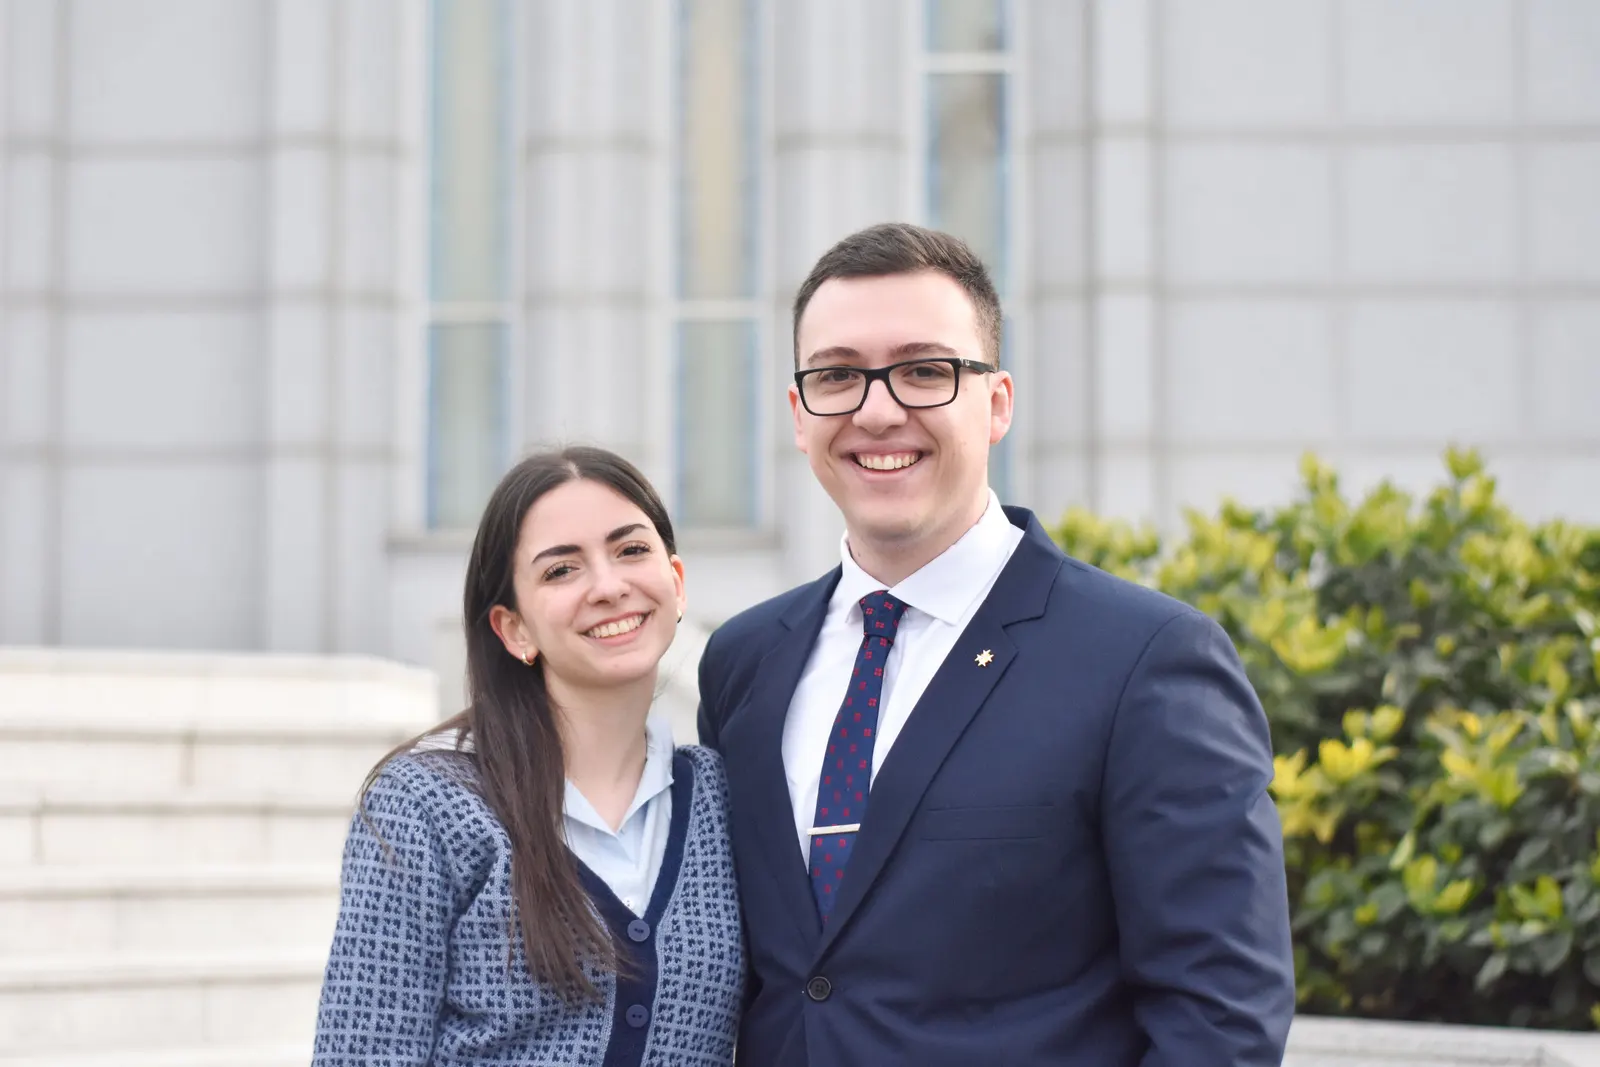
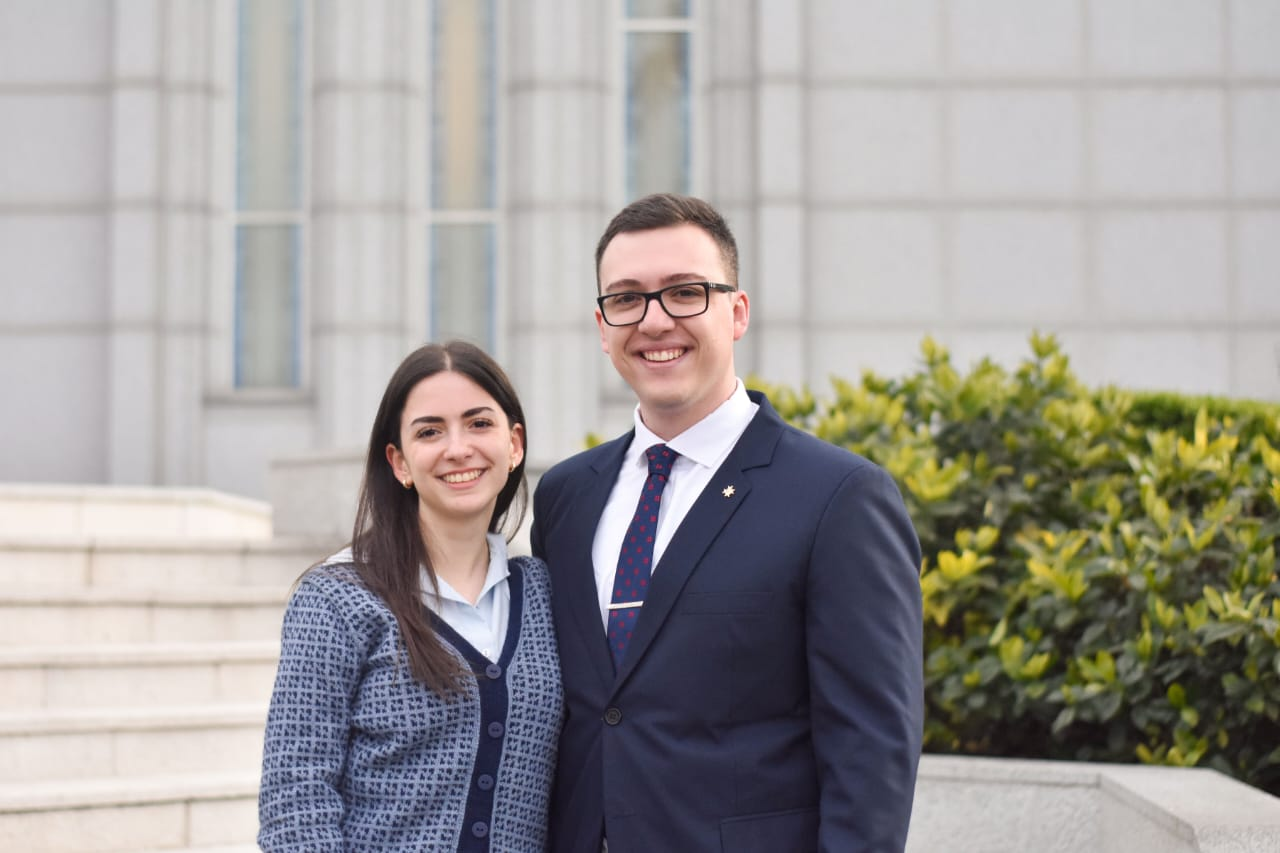
changed photos

diff --git a/README.md b/README.md
@@ -2,7 +2,45 @@
 
 Invitación web: sobre animado → portada, cuenta regresiva, historia, detalles del evento (con "Agregar al calendario"), código de vestimenta, regalos, galería y confirmación de asistencia (RSVP). Más una segunda página, **`/regalos`**, con la lista de regalos completa y reservas.
 
-**Stack:** React 19 · Vite · Tailwind CSS 3 · framer-motion · Supabase (RSVP y reservas de regalos) · Supabase Edge Function + Resend (aviso por mail de reservas) · Google Apps Script (sincronización del RSVP a Google Sheets + aviso por mail). Deploy en Vercel.
+**Stack:** React 19 · Vite · Tailwind CSS 3 · framer-motion · Supabase (RSVP y reservas de regalos) · Supabase Edge Function + Gmail (mails de reservas, con Resend como alternativa) · Vercel (hosting + cron).
+
+## Qué tiene la invitación
+
+| Sección | Detalles |
+| --- | --- |
+| **Sobre** | Pantalla inicial con un sello de cera apoyado sobre la punta de la solapa, como si cerrara el sobre. Un halo late suavemente y un cartel dice "Tocá el sello" en celulares o "Hacé clic en el sello" en compu. Si el invitado vuelve desde `/regalos` (`/#regalos`), el sobre no se repite. |
+| **Portada y cuenta regresiva** | La fecha se formatea desde `site.wedding` con la zona horaria de Argentina. La cuenta regresiva apunta a `wedding.isoString` (12/02/2027 09:40, hora del civil). Para lectores de pantalla hay un resumen que no se anuncia cada segundo. |
+| **Cuándo y Dónde** | Una tarjeta por evento (Civil, Recepción, Sellamiento) con fecha, hora, dirección y "Ver en mapa" siempre al pie. El Sellamiento aclara que no se asegura el ingreso a la sesión, pero se los espera en los jardines del Templo. El botón **Agregar al calendario** descarga un `.ics` con los tres eventos y la duración de cada uno (`durationMinutes`). |
+| **Código de vestimenta** | Detalles más un recuadro destacado con `dressCode.notice` ("Mujeres: no vestimenta blanca"). |
+| **Regalos** | Cuentas para transferir (alias, CBU y CVU) con botón de copiar independiente por campo, y link a `/regalos`. |
+| **Galería** | Fotos en WebP con epígrafe visible también en celulares. |
+| **RSVP** | Formulario validado que guarda en Supabase. Tiene un campo trampa (*honeypot*) contra bots y se cierra solo después de `rsvp.deadline` (1/1/2027), mostrando `rsvp.closedMessage`. |
+
+**Detalles generales**
+
+- **Accesibilidad:** las animaciones respetan *reducir movimiento* del sistema (`MotionConfig reducedMotion="user"`). Hay labels y mensajes de error asociados a cada campo.
+- **Vista previa al compartir:** `index.html` tiene título, descripción y meta tags Open Graph con [`public/assets/og-image.jpg`](public/assets/og-image.jpg) (1200×630), así el link se ve bien en WhatsApp.
+- **Rendimiento:** fotos optimizadas a WebP (≤1600 px, de ~3,7 MB a ~0,75 MB). framer-motion se carga con `LazyMotion`, y Supabase con import dinámico recién al enviar. Las fuentes se cargan con `preconnect`.
+
+## Estructura
+
+```
+index.html              Página principal (meta tags / Open Graph)
+regalos/index.html      Página /regalos
+src/
+  config/site.js        Todo el contenido: textos, fechas, eventos, cuentas, fotos
+  components/sections/  Secciones de la invitación (Hero, Details, RSVP, …)
+  components/ui/        Piezas reutilizables (EnvelopeReveal, Card, Button, Modal, CopyRow, …)
+  regalos/              App de la lista de regalos
+  lib/                  Supabase, animaciones, portapapeles, WhatsApp
+  utils/                Fechas (formato, cuenta regresiva, .ics) y validación del RSVP
+supabase/
+  schema.sql            Tabla rsvp + RLS
+  gifts.sql             Tablas y funciones de la lista de regalos
+  functions/notify-gift Edge Function de mails
+api/keepalive.js        Cron de Vercel para que Supabase no se pause
+public/assets/          Fotos (WebP) e imagen para compartir
+```
 
 ## Desarrollo
 
@@ -36,48 +74,24 @@ Todo el texto, fechas, direcciones, cuentas y fotos se editan en [`src/config/si
 
 El esquema y las políticas de seguridad (RLS) están en [`supabase/schema.sql`](supabase/schema.sql). La anon key es pública, así que la tabla `rsvp` sólo debe permitir **INSERT** para `anon` (nada de SELECT/UPDATE/DELETE).
 
-## Google Apps Script: RSVP → Google Sheets + mail
+### Ver y administrar las confirmaciones
 
-[`rsvp-apps-script.gs`](rsvp-apps-script.gs) recibe cada confirmación nueva de Supabase, agrega una fila en la planilla de RSVP y manda un mail de aviso. Corre gratis en Google y no necesita servidor.
+Las respuestas se ven en Supabase → **Table Editor** → `rsvp`. Los invitados no pueden leer esa tabla, sólo ustedes desde el panel.
 
-Flujo: **Supabase Database Webhook** (INSERT en `rsvp`) → **Apps Script (Web App `/exec`)** → fila en la planilla + mail.
+**Volver el ID a 1** (por ejemplo, para borrar las pruebas antes de mandar las invitaciones), en el **SQL Editor**:
 
-### ¿Es visible?
+```sql
+-- Borra TODAS las confirmaciones y reinicia el contador: la próxima tendrá id = 1.
+truncate table public.rsvp restart identity;
+```
 
-- **En el sitio, no.** Vite sólo publica `public/` y lo que importa el código. El `.gs` no entra en el build y los invitados no lo pueden ver.
-- **En GitHub, sí.** El repo es público, así que el archivo **no contiene secretos**. El `SECRET` y los mails de aviso se guardan en las *Propiedades del script* de Google, que sólo ve tu cuenta. El ID de la planilla sí está en el código, pero sin permisos sobre la hoja no sirve de nada: la planilla tiene que estar compartida **sólo** con ustedes.
+Si la tabla ya está vacía y sólo querés reiniciar el contador:
 
-### Instalación
+```sql
+alter table public.rsvp alter column id restart with 1;
+```
 
-1. **Encabezados:** la fila 1 de la primera hoja tiene que tener
-   `ID | Nombre | Personas | Asistencia | Restricciones | Mensaje | Fecha | Mesa`
-   La columna *Mesa* queda vacía para completarla a mano.
-2. **Pegar el script:** en la planilla, *Extensiones → Apps Script*, pegar el contenido de `rsvp-apps-script.gs`.
-3. **Propiedades del script:** en *Configuración del proyecto (⚙) → Propiedades del script*, agregar:
-
-   | Propiedad  | Valor                                                     |
-   | ---------- | --------------------------------------------------------- |
-   | `SECRET`   | Texto largo y aleatorio (por ejemplo, de un gestor de contraseñas) |
-   | `AVISAR_A` | Mails que reciben el aviso, separados por coma            |
-
-   Si falta `SECRET`, el script rechaza todos los pedidos. Si falta `AVISAR_A`, guarda la fila pero no manda mail.
-4. **Publicar:** *Implementar → Nueva implementación → Aplicación web*, con *Ejecutar como: Yo* y *Quién tiene acceso: Cualquier persona*. Autorizar con tu cuenta. Si aparece "Google no verificó esta app", ir a *Configuración avanzada → Ir a…*: es tu propio script. Copiar la URL que termina en `/exec`.
-5. **Webhook en Supabase:** *Database → Webhooks → Create a new hook*:
-   - Tabla: `public.rsvp` · Eventos: **Insert**
-   - Tipo: *HTTP Request* · Método: `POST`
-   - URL: `https://script.google.com/macros/s/…/exec?secret=<tu SECRET>`
-
-   Apps Script no lee headers, por eso el secreto va en la URL. Esa URL queda guardada sólo en Supabase: no la pegues en el código ni en el repo. En los logs de Supabase vas a ver un `302`: es normal, la fila igual se guarda.
-6. **Probar:** enviar un RSVP desde la web (o insertar una fila en `rsvp`) y verificar la planilla y el mail. Los errores se ven en Apps Script → *Ejecuciones*.
-
-### Actualizar el script
-
-Después de editar el código: *Implementar → Gestionar implementaciones → ✏ → Versión: Nueva*. Así la URL `/exec` sigue siendo la misma y no hay que tocar el webhook.
-
-### Seguridad
-
-- El script antepone `'` a los textos que empiezan con `=`, `+`, `-` o `@`, para que un invitado no pueda inyectar fórmulas en la planilla.
-- Si alguna vez el `SECRET` termina en un lugar público, cambialo en las Propiedades del script y en la URL del webhook de Supabase.
+> ⚠ No reinicies el contador si quedan filas: cuando llegue a un id existente, el insert falla y el invitado ve un error.
 
 ## Lista de regalos (`/regalos`)
 
